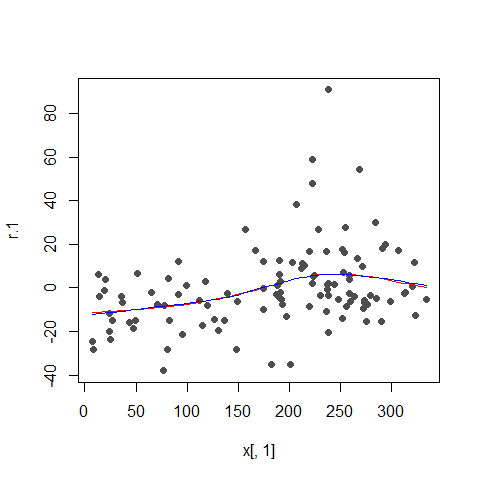
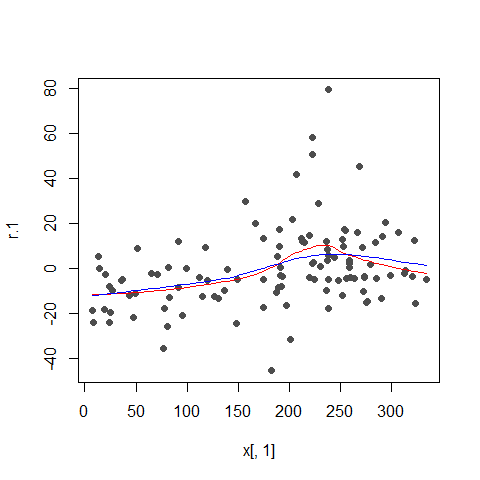
all the pieces are here

diff --git a/Example-backfitting.md b/Example-backfitting.md
@@ -5,15 +5,19 @@ Matias Salibian-Barrera
 
 #### LICENSE
 
-These notes are released under the "Creative Commons Attribution-ShareAlike 4.0 International" license. See the **human-readable version** [here](https://creativecommons.org/licenses/by-sa/4.0/) and the **real thing** [here](https://creativecommons.org/licenses/by-sa/4.0/legalcode).
+These notes are released under the “Creative Commons
+Attribution-ShareAlike 4.0 International” license. See the
+**human-readable version**
+[here](https://creativecommons.org/licenses/by-sa/4.0/) and the **real
+thing**
+[here](https://creativecommons.org/licenses/by-sa/4.0/legalcode).
 
-DRAFT (Read at your own risk)
-=============================
+# DRAFT (Read at your own risk)
 
-Backfitting (robust and otherwise) "by hand"
---------------------------------------------
+## Backfitting (robust and otherwise) “by hand”
 
-We use the Air Quality data. To simplify the example, we will only use two explanatory variables (`Wind` and `Temp`):
+We use the Air Quality data. To simplify the example, we will only use
+two explanatory variables (`Wind` and `Temp`):
 
 ``` r
 library(RBF)
@@ -31,11 +35,13 @@ A scatter plot of the data
 pairs(cbind(y,x), labels=c('Ozone', colnames(x)), pch=19, col='gray30', cex=1.5)
 ```
 
-![](Example-backfitting_files/figure-markdown_github/scatter-1.png)
+![](Example-backfitting_files/figure-gfm/scatter-1.png)<!-- -->
 
 ### Classical backfitting
 
-The algorithm starts with the estimated intercept (equal to the sample mean of the response), and all the components of the additive model set to zero:
+The algorithm starts with the estimated intercept (equal to the sample
+mean of the response), and all the components of the additive model set
+to zero:
 
 ``` r
 alpha.hat <- mean(y)
@@ -59,9 +65,10 @@ plot(r.1 ~ x[,1], type='p', pch=19, col='gray30')
 lines(f.hat.1[oo] ~ x[oo,1], col='red')
 ```
 
-![](Example-backfitting_files/figure-markdown_github/smooth.1-1.png)
+![](Example-backfitting_files/figure-gfm/smooth.1-1.png)<!-- -->
 
-Now, compute partial residuals without `f.hat.2` and smooth them as a function of `x2`,
+Now, compute partial residuals without `f.hat.2` and smooth them as a
+function of `x2`,
 
 ``` r
 oo2 <- order(x[,2])
@@ -71,7 +78,7 @@ plot(r.2 ~ x[,2], type='p', pch=19, col='gray30')
 lines(f.hat.2[oo2] ~ x[oo2,2], col='red')
 ```
 
-![](Example-backfitting_files/figure-markdown_github/smooth.2-1.png)
+![](Example-backfitting_files/figure-gfm/smooth.2-1.png)<!-- -->
 
 Finally, update `f.hat.3`:
 
@@ -83,7 +90,7 @@ plot(r.3 ~ x[,3], type='p', pch=19, col='gray30')
 lines(f.hat.3[oo3] ~ x[oo3,3], col='red')
 ```
 
-![](Example-backfitting_files/figure-markdown_github/smooth.3-1.png)
+![](Example-backfitting_files/figure-gfm/smooth.3-1.png)<!-- -->
 
 Iterate
 
@@ -141,7 +148,7 @@ lines(f.hat.1[oo] ~ x[oo,1], col='red')
 lines(f.hat.1.orig[oo] ~ x[oo,1], col='blue')
 ```
 
-![](Example-backfitting_files/figure-markdown_github/iterate-1.png)
+![](Example-backfitting_files/figure-gfm/iterate-1.png)<!-- -->
 
 ``` r
 plot(r.2 ~ x[,2], type='p', pch=19, col='gray30')
@@ -149,7 +156,7 @@ lines(f.hat.2[oo2] ~ x[oo2,2], col='red')
 lines(f.hat.2.orig[oo2] ~ x[oo2,2], col='blue')
 ```
 
-![](Example-backfitting_files/figure-markdown_github/iterate-2.png)
+![](Example-backfitting_files/figure-gfm/iterate-2.png)<!-- -->
 
 ``` r
 plot(r.3 ~ x[,3], type='p', pch=19, col='gray30')
@@ -157,9 +164,9 @@ lines(f.hat.3[oo3] ~ x[oo3,3], col='red')
 lines(f.hat.3.orig[oo3] ~ x[oo3,3], col='blue')
 ```
 
-![](Example-backfitting_files/figure-markdown_github/iterate-3.png)
+![](Example-backfitting_files/figure-gfm/iterate-3.png)<!-- -->
 
-Sanity check
+#### Sanity check
 
 ``` r
 library(gam)
@@ -174,7 +181,7 @@ lines(f.hat.1[oo] ~ x[oo,1], col='red')
 lines(gg[oo,1] ~ x[oo,1], col='blue')
 ```
 
-![](Example-backfitting_files/figure-markdown_github/trygam-1.png)
+![](Example-backfitting_files/figure-gfm/trygam-1.png)<!-- -->
 
 ``` r
 plot(r.2 ~ x[,2], type='p', pch=19, col='gray30')
@@ -182,7 +189,7 @@ lines(f.hat.2[oo2] ~ x[oo2,2], col='red')
 lines(gg[oo2,2] ~ x[oo2,2], col='blue')
 ```
 
-![](Example-backfitting_files/figure-markdown_github/trygam-2.png)
+![](Example-backfitting_files/figure-gfm/trygam-2.png)<!-- -->
 
 ``` r
 plot(r.3 ~ x[,3], type='p', pch=19, col='gray30')
@@ -190,9 +197,13 @@ lines(f.hat.3[oo3] ~ x[oo3,3], col='red')
 lines(gg[oo3,3] ~ x[oo3,3], col='blue')
 ```
 
-![](Example-backfitting_files/figure-markdown_github/trygam-3.png)
+![](Example-backfitting_files/figure-gfm/trygam-3.png)<!-- -->
 
 ``` r
+f.hat.1.cl <- f.hat.1
+f.hat.2.cl <- f.hat.2
+f.hat.3.cl <- f.hat.3
+
 # head(cbind(f.hat.1, gg[,1]))
 # head(cbind(f.hat.2, gg[,2]))
 # head(cbind(f.hat.3, gg[,3]))
@@ -201,3 +212,172 @@ lines(gg[oo3,3] ~ x[oo3,3], col='blue')
 # plot(f.hat.2, gg[,2]); abline(0,1)
 # plot(f.hat.3, gg[,3]); abline(0,1)
 ```
+
+### Robust BF
+
+For the robust one. Estimate sigma first (and keep it fixed)
+
+``` r
+library(RBF)
+bandw <- c(137, 9, 8)
+si.hat <- backf.rob(Xp=x, yp=y, windows=bandw)$sigma.hat
+```
+
+  - Need a function f(x\_0, x, y, sigma, cc, h) that returns the
+    solution `a` to
+
+<!-- end list -->
+
+``` r
+# mean( \rhoprime( (y-a)/sigma), cc=cc) * kernel((x-x_0)/h) = 0
+localM <- function(x0, x, y, sigma, 
+                   cc=RobStatTM::lmrobdet.control(family='bisquare',
+                                                         bb=.5)$tuning.psi, 
+                   h, tol=1e-5, max.it=100) {
+  ker.we <- RBF::k.epan((x - x0)/h)
+  ii <- which( abs(x-x0) < h) 
+  a0 <- median(y[ii])
+  beta <- coef( quantreg::rq(y ~ I(x-x0) + I((x-x0)^2), subset=ii) )
+  n <- length(y)
+  zz <- cbind(rep(1,n), x - x0, (x-x0)^2)
+  err <- 10*tol
+  j <- 0
+  while( (err > tol) & (j < max.it) ) {
+    beta.old <- beta
+    re <- as.vector(y - zz %*% beta)
+    ww1 <- RobStatTM::rhoprime(re/sigma, family='bisquare', cc=cc) / (re/sigma)
+    ww1[ is.nan(ww1) ] <- 1
+    ww <- ker.we * ww1
+    beta <- solve( t(zz) %*% (zz*ww), t(zz * ww) %*% y) 
+    err <- sqrt( sum( (beta - beta.old)^2 ) )
+    j <- j + 1
+  }
+  return(beta[1])
+}
+```
+
+``` r
+alpha.hat <- RobStatTM::locScaleM(x=y, psi='bisquare')$mu
+n <- length(y)
+f.hat.1 <- f.hat.2 <- f.hat.3 <- rep(0, n)
+
+r.1 <- y - alpha.hat - f.hat.2 - f.hat.3
+oo <- order(x[,1])
+for(i in 1:n) 
+  f.hat.1[i] <- localM(x0=x[i,1], x=x[,1], y=r.1, sigma=si.hat, h=bandw[1])
+
+plot(r.1 ~ x[,1], type='p', pch=19, col='gray30')
+lines(f.hat.1[oo] ~ x[oo,1], col='red')
+```
+
+![](Example-backfitting_files/figure-gfm/robust.onestep-1.png)<!-- -->
+
+``` r
+oo2 <- order(x[,2])
+r.2 <- y - alpha.hat - f.hat.1 - f.hat.3
+for(i in 1:n) 
+  f.hat.2[i] <- localM(x0=x[i,2], x=x[,2], y=r.2, sigma=si.hat, h=bandw[2])
+
+plot(r.2 ~ x[,2], type='p', pch=19, col='gray30')
+lines(f.hat.2[oo2] ~ x[oo2,2], col='red')
+```
+
+![](Example-backfitting_files/figure-gfm/robust.onestep-2.png)<!-- -->
+
+``` r
+oo3 <- order(x[,3])
+r.3 <- y - alpha.hat - f.hat.1 - f.hat.2
+for(i in 1:n) 
+  f.hat.3[i] <- localM(x0=x[i,3], x=x[,3], y=r.3, sigma=si.hat, h=bandw[3])
+plot(r.3 ~ x[,3], type='p', pch=19, col='gray30')
+lines(f.hat.3[oo3] ~ x[oo3,3], col='red')
+```
+
+![](Example-backfitting_files/figure-gfm/robust.onestep-3.png)<!-- -->
+
+Robust iterations
+
+``` r
+f.hat.3 <- f.hat.3 - mean(f.hat.3)
+f.hat.2 <- f.hat.2 - mean(f.hat.2)
+f.hat.1 <- f.hat.1 - mean(f.hat.1)
+alpha.hat <- RobStatTM::locScaleM(x=y - f.hat.1 - f.hat.2 - f.hat.3,
+                                  psi='bisquare')$mu
+f.hat.1.orig <- f.hat.1
+f.hat.2.orig <- f.hat.2
+f.hat.3.orig <- f.hat.3
+
+for(i in 1:15) {
+  f.hat.1.old <- f.hat.1
+  f.hat.2.old <- f.hat.2
+  f.hat.3.old <- f.hat.3
+  
+  r.1 <- y - alpha.hat - f.hat.2 - f.hat.3
+  for(i in 1:n) 
+    f.hat.1[i] <- localM(x0=x[i,1], x=x[,1], y=r.1, sigma=si.hat, h=bandw[1])
+  
+  r.2 <- y - alpha.hat - f.hat.1 - f.hat.3
+  for(i in 1:n) 
+    f.hat.2[i] <- localM(x0=x[i,2], x=x[,2], y=r.2, sigma=si.hat, h=bandw[2])
+  
+  r.3 <- y - alpha.hat - f.hat.1 - f.hat.2
+  for(i in 1:n) 
+    f.hat.3[i] <- localM(x0=x[i,3], x=x[,3], y=r.3, sigma=si.hat, h=bandw[3])
+  
+  f.hat.3 <- f.hat.3 - mean(f.hat.3)
+  f.hat.2 <- f.hat.2 - mean(f.hat.2)
+  f.hat.1 <- f.hat.1 - mean(f.hat.1)
+  
+  alpha.hat <- RobStatTM::locScaleM(x=y - f.hat.1 - f.hat.2 - f.hat.3,
+                                  psi='bisquare')$mu
+  
+  print(sqrt(mean((f.hat.1-f.hat.1.old)^2) + 
+               mean((f.hat.2-f.hat.2.old)^2) +
+               mean((f.hat.3-f.hat.3.old)^2)))
+}
+```
+
+    ## [1] 11.47695
+    ## [1] 4.377791
+    ## [1] 2.005231
+    ## [1] 0.8529065
+    ## [1] 0.3440642
+    ## [1] 0.1327937
+    ## [1] 0.04908799
+    ## [1] 0.0173641
+    ## [1] 0.005869713
+    ## [1] 0.001895551
+    ## [1] 0.0005904193
+    ## [1] 0.0001858384
+    ## [1] 6.585863e-05
+    ## [1] 2.773783e-05
+    ## [1] 1.261046e-05
+
+Show
+
+``` r
+plot(r.1 ~ x[,1], type='p', pch=19, col='gray30')
+lines(f.hat.1[oo] ~ x[oo,1], col='red')
+lines(f.hat.1.orig[oo] ~ x[oo,1], col='blue')
+lines(f.hat.1.cl[oo] ~ x[oo,1], col='magenta')
+```
+
+![](Example-backfitting_files/figure-gfm/robiterplots-1.png)<!-- -->
+
+``` r
+plot(r.2 ~ x[,2], type='p', pch=19, col='gray30')
+lines(f.hat.2[oo2] ~ x[oo2,2], col='red')
+lines(f.hat.2.orig[oo2] ~ x[oo2,2], col='blue')
+lines(f.hat.2.cl[oo2] ~ x[oo2,2], col='magenta')
+```
+
+![](Example-backfitting_files/figure-gfm/robiterplots-2.png)<!-- -->
+
+``` r
+plot(r.3 ~ x[,3], type='p', pch=19, col='gray30')
+lines(f.hat.3[oo3] ~ x[oo3,3], col='red')
+lines(f.hat.3.orig[oo3] ~ x[oo3,3], col='blue')
+lines(f.hat.3.cl[oo3] ~ x[oo3,3], col='magenta')
+```
+
+![](Example-backfitting_files/figure-gfm/robiterplots-3.png)<!-- -->
